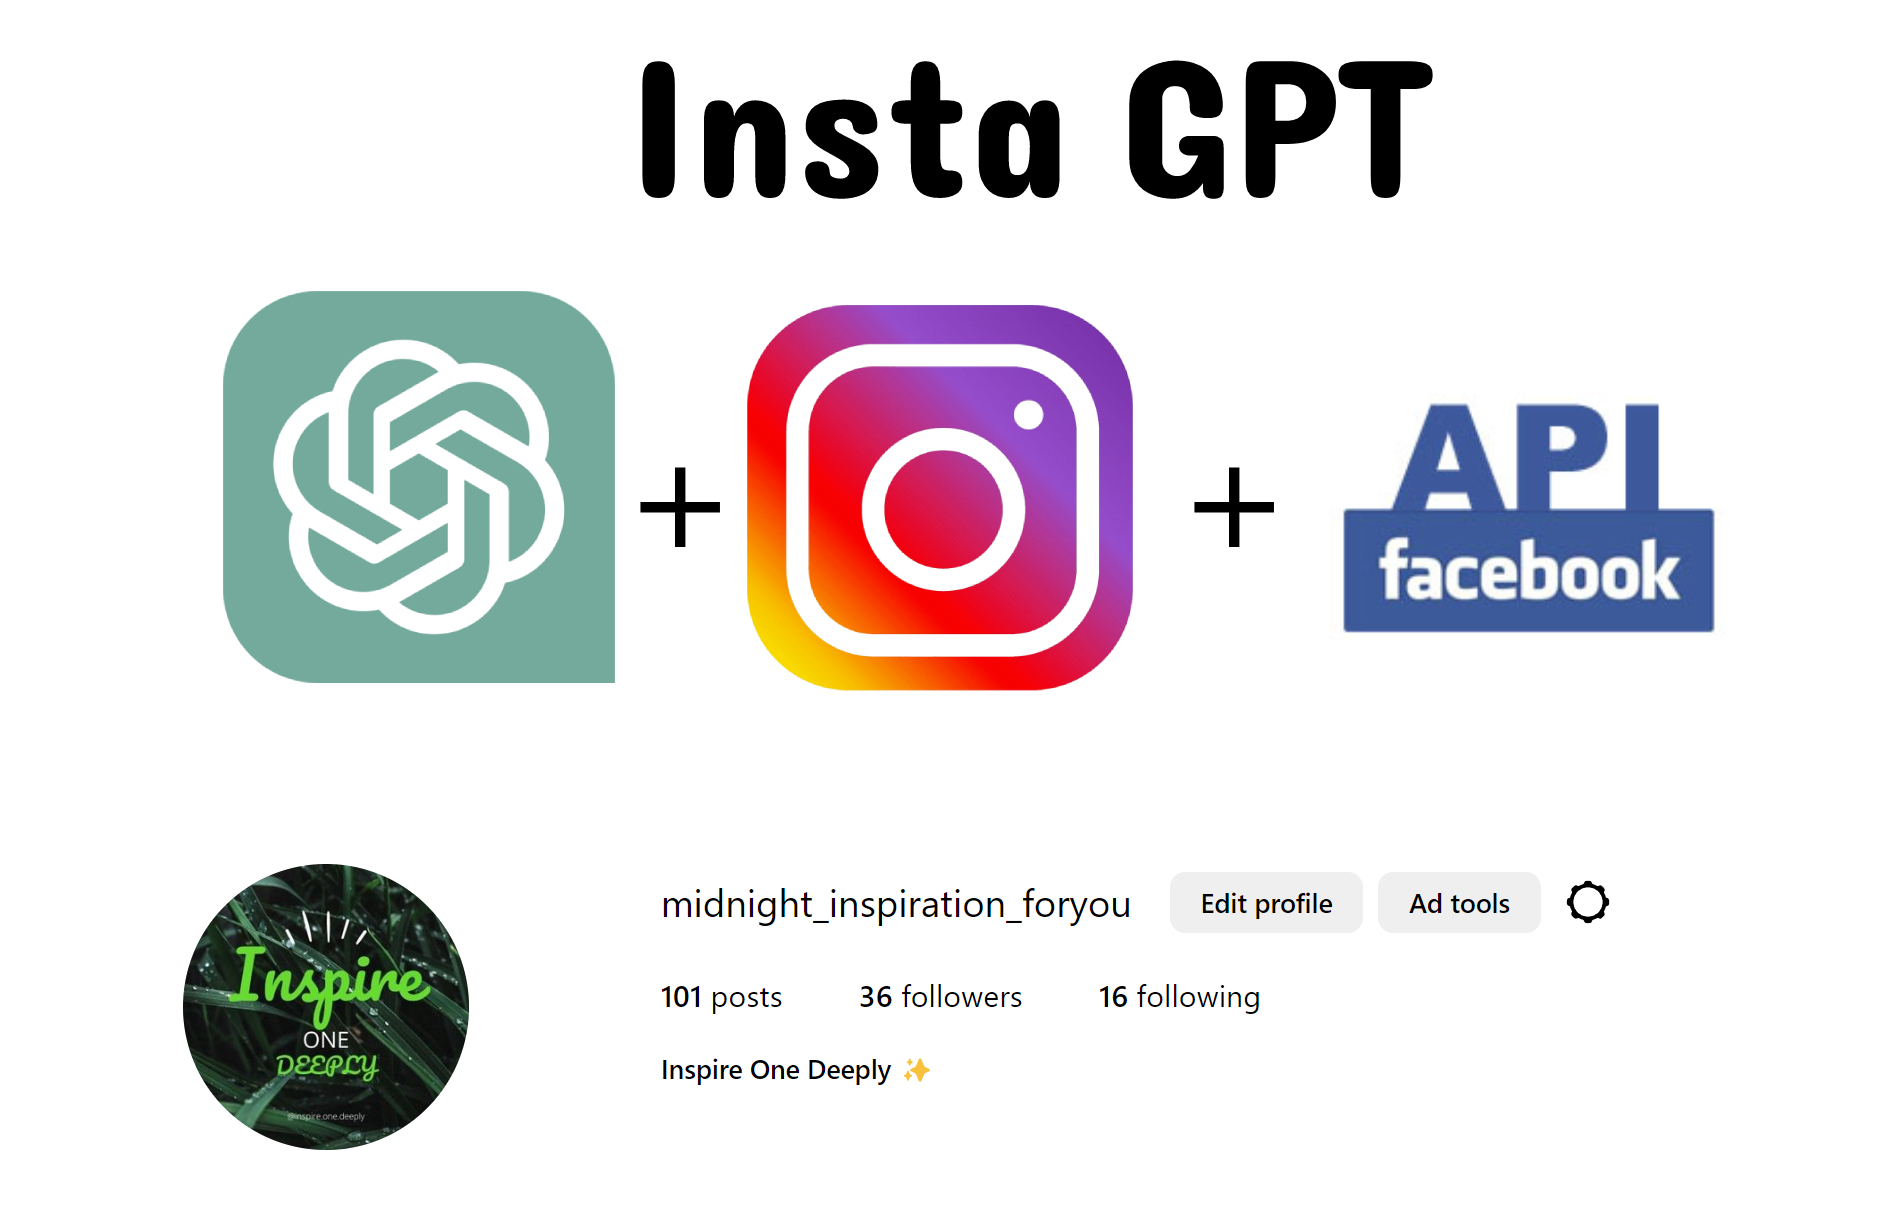
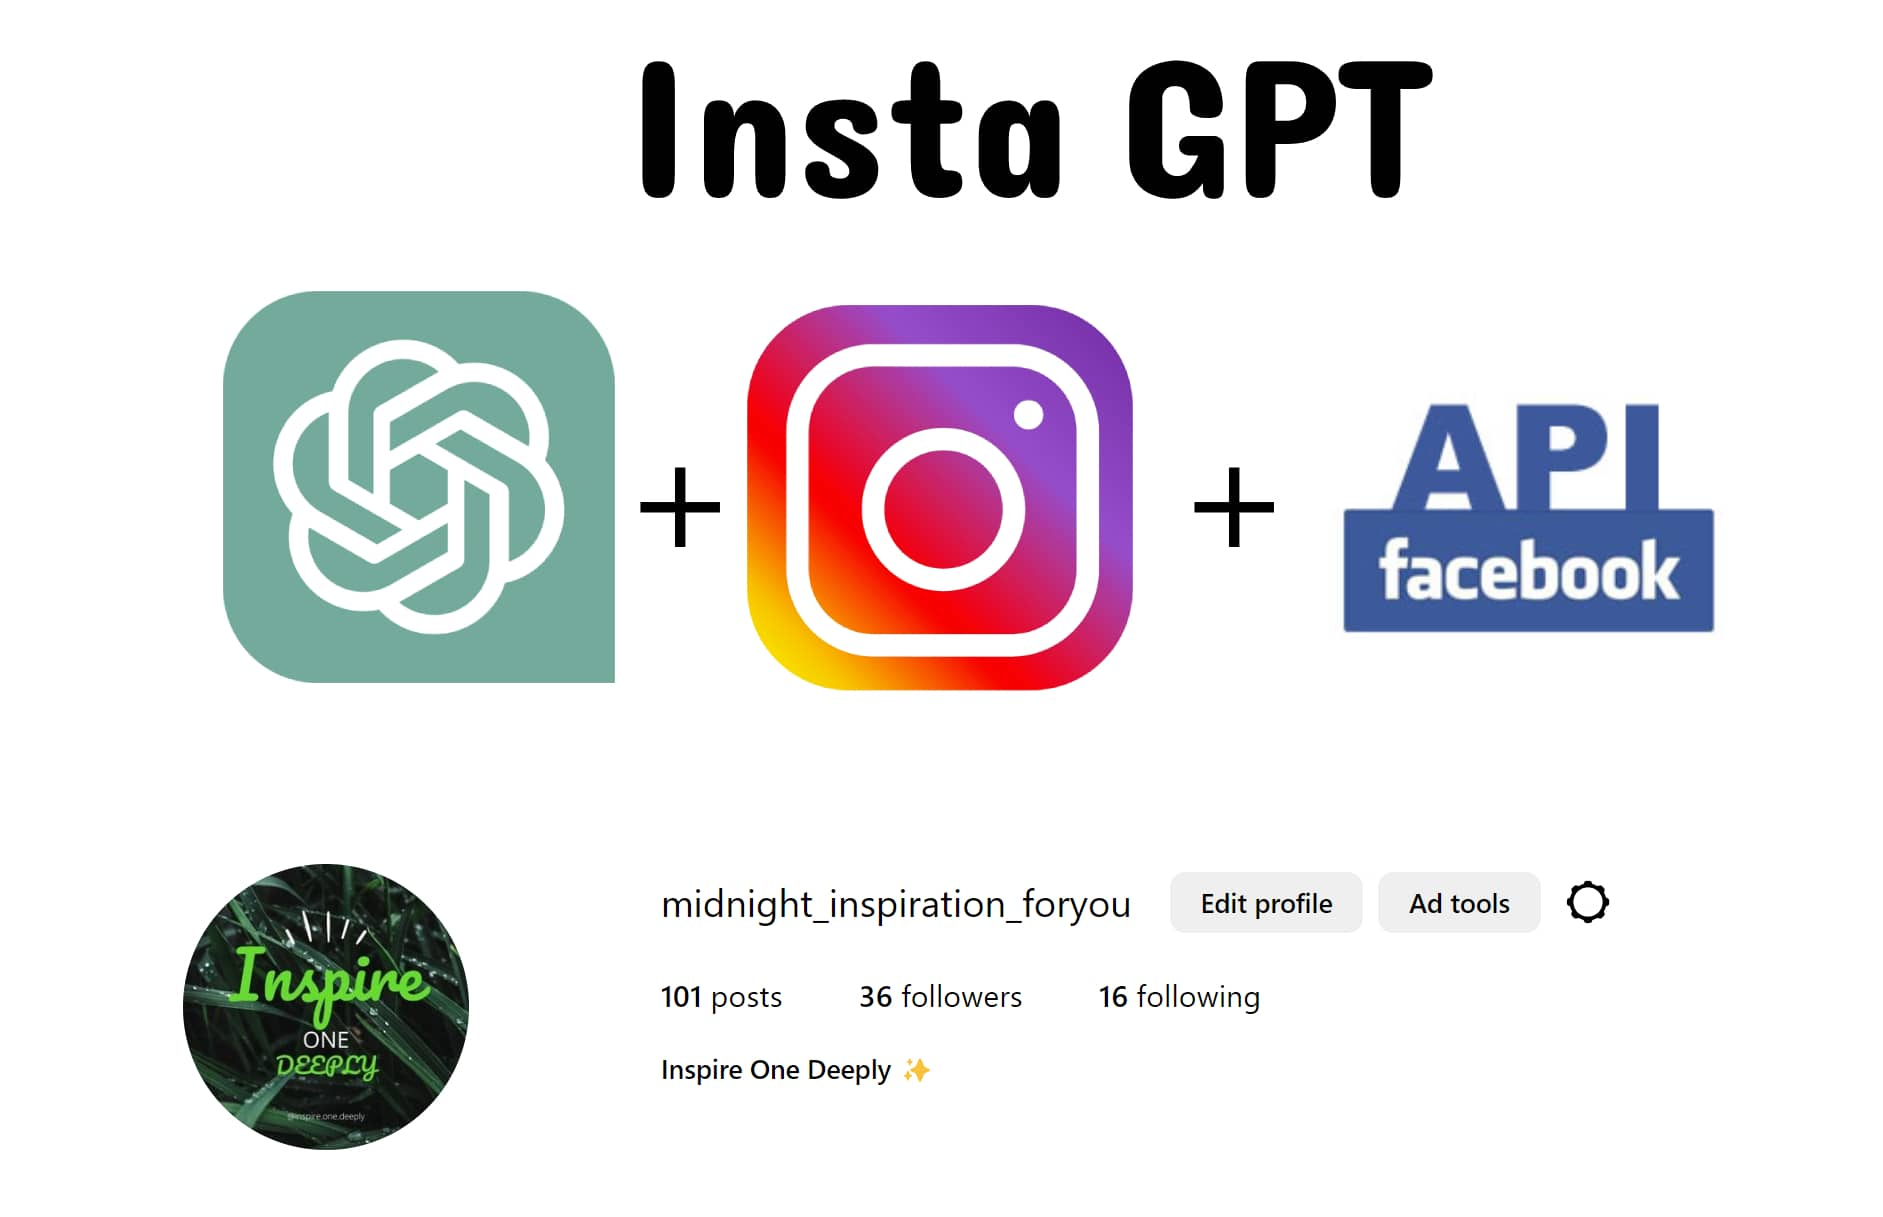
feat: update image with a compressed one

diff --git a/src/data/PortfolioData.tsx b/src/data/PortfolioData.tsx
@@ -6,7 +6,7 @@ import {Project, makeProject} from './Project'
 import project1logo from '../images/project1.png'
 import project2logo from '../images/project2.gif'
 import project3logo from '../images/project3.png'
-import project4logo from '../images/project4.png'
+import project4logo from '../images/project4.jpg'
 
 export type PortfolioData = {
   experiences: Experience[]
